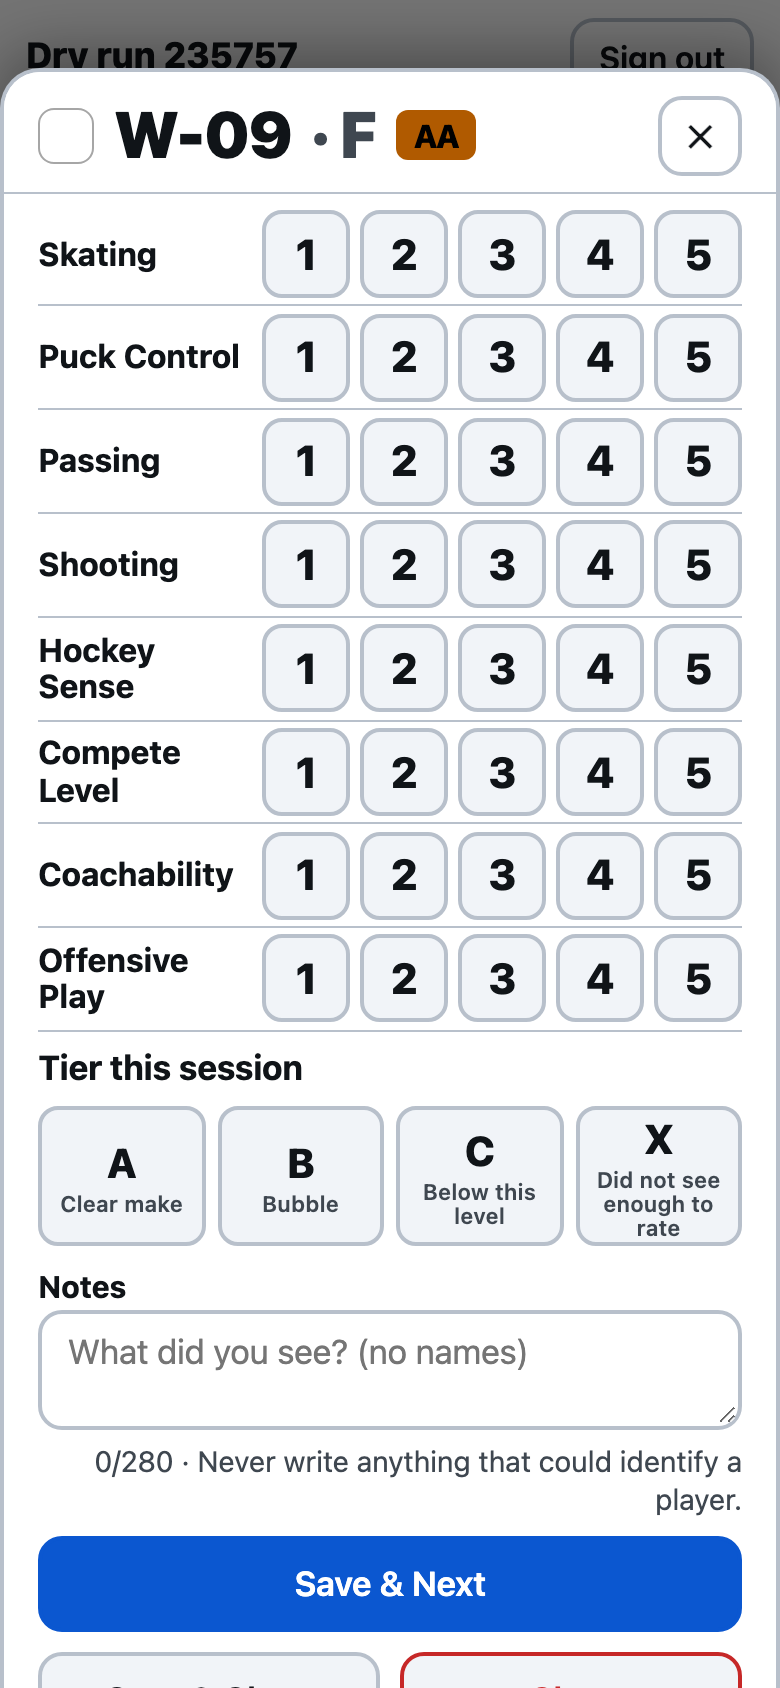
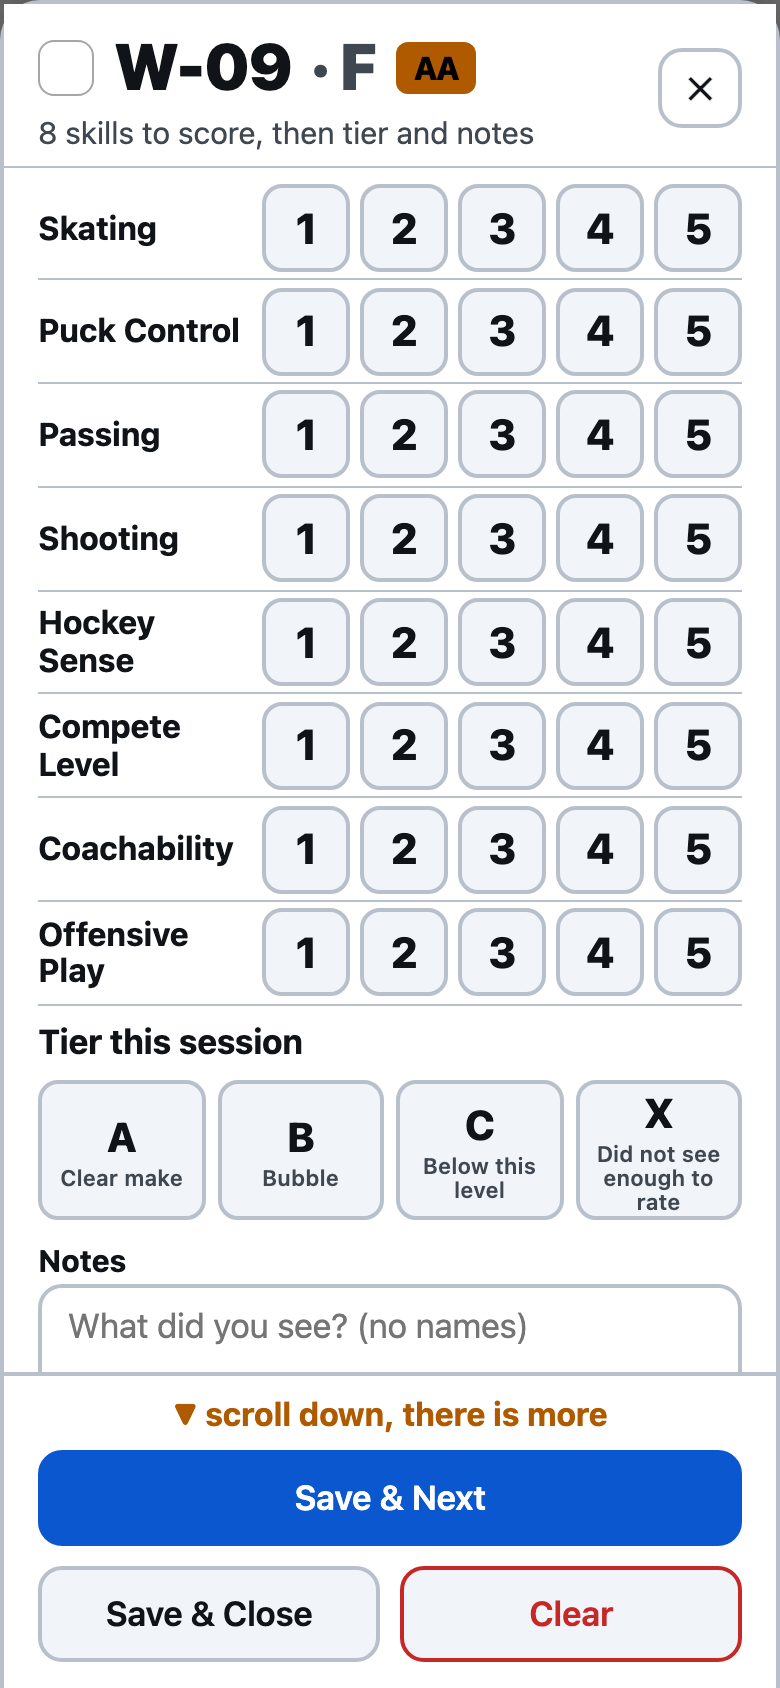
Scoring sheet: full height, pinned buttons, more-below marker
The sheet now fills the phone screen with the player header pinned at the top
and Save & Next / Save & Close / Clear pinned at the bottom; the skills, tier
and notes scroll in between. The header says how many skills there are, an
amber 'scroll down, there is more' marker shows until the end is reached, and
the sheet ends with an explicit end-of-sheet line.

diff --git a/web/css/app.css b/web/css/app.css
@@ -135,10 +135,15 @@ textarea { min-height: 88px; resize: vertical; }
 
 /* Scoring sheet */
 .sheet-backdrop { position: fixed; inset: 0; background: rgba(0,0,0,.55); z-index: 30; }
-.sheet { position: fixed; left: 0; right: 0; bottom: 0; z-index: 31; max-height: 96dvh; overflow-y: auto; background: var(--bg);
+/* Full-height sheet: header pinned at the top, Save buttons pinned at the bottom, the skills scroll in between. */
+.sheet { position: fixed; left: 0; right: 0; bottom: 0; z-index: 31; height: 100dvh; max-height: 100dvh; display: flex; flex-direction: column; background: var(--bg);
   border-top-left-radius: 20px; border-top-right-radius: 20px; border: 2px solid var(--border); border-bottom: 0;
-  padding: .75rem 1rem calc(1rem + env(safe-area-inset-bottom)); box-shadow: 0 -8px 30px rgba(0,0,0,.35); }
-.sheet .head { position: sticky; top: -.75rem; z-index: 2; background: var(--bg); display: flex; align-items: center; justify-content: space-between; gap: .5rem; margin: -.75rem -1rem .25rem; padding: .6rem 1rem .4rem; border-bottom: 1px solid var(--border); }
+  padding: 0; box-shadow: 0 -8px 30px rgba(0,0,0,.35); }
+.sheet .head { flex: 0 0 auto; z-index: 2; background: var(--bg); display: flex; align-items: center; justify-content: space-between; gap: .5rem; margin: 0; padding: max(.6rem, env(safe-area-inset-top)) 1rem .4rem; border-bottom: 1px solid var(--border); }
+.sheet .body { flex: 1 1 auto; overflow-y: auto; -webkit-overflow-scrolling: touch; padding: .25rem 1rem .75rem; }
+.sheet .sheet-foot { flex: 0 0 auto; background: var(--bg); border-top: 2px solid var(--border); padding: .5rem 1rem calc(.75rem + env(safe-area-inset-bottom)); }
+.sheet .more { text-align: center; font-weight: 700; color: var(--warn); font-size: .95rem; margin-bottom: .4rem; }
+.sheet .actions { margin-top: 0; }
 .sheet .who { font-size: 1.9rem; font-weight: 900; letter-spacing: -.02em; display: flex; align-items: center; gap: .6rem; }
 .sheet .who .sw { width: 28px; height: 28px; border-radius: 8px; border: 1px solid rgba(0,0,0,.35); }
 .crit { display: grid; grid-template-columns: minmax(96px, 1fr) auto; align-items: center; gap: .4rem; padding: .2rem 0; border-bottom: 1px solid var(--border); }
@@ -165,7 +170,7 @@ textarea { min-height: 88px; resize: vertical; }
 
 /* iPad landscape: two-column sheet */
 @media (min-width: 900px) {
-  .sheet { left: 50%; transform: translateX(-50%); width: 900px; border-radius: 20px 20px 0 0; }
+  .sheet { left: 50%; transform: translateX(-50%); width: 900px; height: auto; max-height: 96dvh; border-radius: 20px 20px 0 0; }
   .sheet .body { display: grid; grid-template-columns: 1fr 1fr; gap: 0 2rem; }
   .sheet .body > .side { padding-top: .35rem; }
   .grid { grid-template-columns: repeat(auto-fill, minmax(120px, 1fr)); }

diff --git a/web/evaluate.html b/web/evaluate.html
@@ -44,10 +44,11 @@
     <div>
       <div id="sheetWho" class="who"><span class="sw" id="sheetSw"></span><span id="sheetNum">W-14</span><span class="muted" id="sheetPos">· D</span><span id="sheetTag" class="tagpill" hidden></span></div>
       <div id="sheetAlt" class="small muted" hidden></div>
+      <div id="sheetCount" class="small muted"></div>
     </div>
     <button id="sheetClose" class="btn sm ghost" type="button" aria-label="Close">✕</button>
   </div>
-  <div class="body">
+  <div class="body" id="sheetBody">
     <div id="criteria"></div>
     <div class="side">
       <h3 style="margin:.5rem 0 .25rem">Tier this session</h3>
@@ -57,12 +58,15 @@
         <textarea id="notes" maxlength="280" rows="1" placeholder="What did you see? (no names)"></textarea>
         <div class="count"><span id="notesCount">0</span>/280 · Never write anything that could identify a player.</div>
       </div>
-      <div class="actions">
-        <button id="saveNext" class="btn primary full" type="button">Save &amp; Next</button>
-        <button id="saveClose" class="btn" type="button">Save &amp; Close</button>
-        <button id="clearBtn" class="btn danger" type="button">Clear</button>
-      </div>
-      <p class="muted small" style="margin-top:.6rem">Every tap is saved on this phone immediately and synced when there is a connection.</p>
+      <p class="muted small" style="margin:.6rem 0 0;text-align:center">— end of sheet · every tap is saved on this phone —</p>
+    </div>
+  </div>
+  <div class="sheet-foot">
+    <div id="sheetMore" class="more" hidden>▼ scroll down, there is more</div>
+    <div class="actions">
+      <button id="saveNext" class="btn primary full" type="button">Save &amp; Next</button>
+      <button id="saveClose" class="btn" type="button">Save &amp; Close</button>
+      <button id="clearBtn" class="btn danger" type="button">Clear</button>
     </div>
   </div>
 </section>

diff --git a/web/js/evaluate.js b/web/js/evaluate.js
@@ -306,11 +306,22 @@ function openSheet(playerNumber) {
   $("notesCount").textContent = String(notes.value.length);
   for (const id of ["saveNext", "saveClose", "clearBtn"]) $(id).disabled = isReadOnly();
 
+  $("sheetCount").textContent = `${criteriaFor(p.position).length} skills to score, then tier and notes`;
   $("sheetBackdrop").hidden = false;
   $("sheet").hidden = false;
-  $("sheet").scrollTop = 0;
   document.body.style.overflow = "hidden";
+  $("sheetBody").scrollTop = 0;
+  requestAnimationFrame(updateMore);
 }
+
+/** Show "more below" until the evaluator has scrolled to the end of the sheet. */
+function updateMore() {
+  const body = $("sheetBody");
+  const more = body.scrollHeight - body.clientHeight - body.scrollTop > 8;
+  $("sheetMore").hidden = !more;
+}
+$("sheetBody").addEventListener("scroll", updateMore, { passive: true });
+window.addEventListener("resize", updateMore);
 
 function closeSheet() {
   flushNotes();
